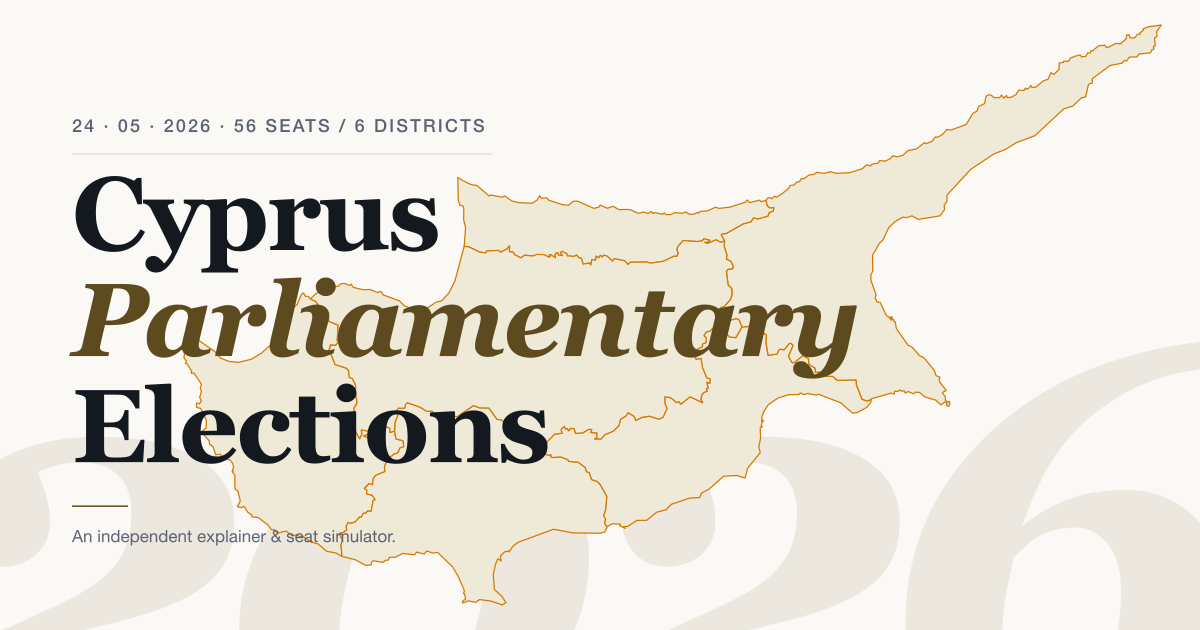
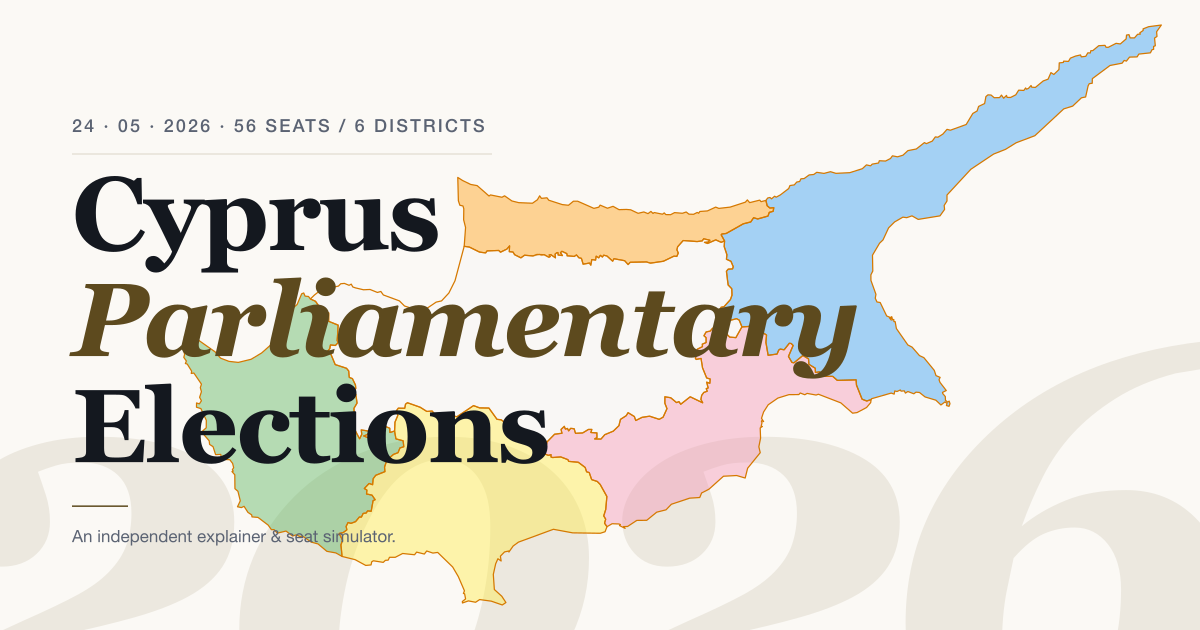
Fix social share preview: absolute OG image URL and per-district colours
Social crawlers were rendering no preview because og:image / twitter:image
resolved to relative URLs. Switched to absolute https URLs and added
og:url, og:image:secure_url, og:image:type.

Regenerated og-image.png so the island matches the landing page's
end-of-animation state (per-district ballot colours instead of a single
accent-soft wash). generate-icons.mjs now resolves its repo root from
the script location and parses district id+path pairs.

Changed region(s): [[0.1542, 0.0302, 0.9867, 0.9651]]

diff --git a/src/app.html b/src/app.html
@@ -25,7 +25,10 @@
     <meta property="og:type" content="website" />
     <meta property="og:title" content="Cyprus Parliamentary Elections 2026" />
     <meta property="og:description" content="How parliament is really chosen, and why polls don’t tell the whole story. An interactive explainer in English &amp; Greek." />
-    <meta property="og:image" content="%sveltekit.assets%/og-image.png" />
+    <meta property="og:url" content="https://an21p.github.io/cyprus-parliamentary-elections-2026/" />
+    <meta property="og:image" content="https://an21p.github.io/cyprus-parliamentary-elections-2026/og-image.png" />
+    <meta property="og:image:secure_url" content="https://an21p.github.io/cyprus-parliamentary-elections-2026/og-image.png" />
+    <meta property="og:image:type" content="image/png" />
     <meta property="og:image:width" content="1200" />
     <meta property="og:image:height" content="630" />
     <meta property="og:image:alt" content="Cyprus 2026 Parliamentary Elections · interactive explainer" />
@@ -35,7 +38,7 @@
     <meta name="twitter:card" content="summary_large_image" />
     <meta name="twitter:title" content="Cyprus Parliamentary Elections 2026" />
     <meta name="twitter:description" content="How parliament is really chosen, and why polls don’t tell the whole story." />
-    <meta name="twitter:image" content="%sveltekit.assets%/og-image.png" />
+    <meta name="twitter:image" content="https://an21p.github.io/cyprus-parliamentary-elections-2026/og-image.png" />
     <meta name="twitter:image:alt" content="Cyprus 2026 Parliamentary Elections · interactive explainer" />
 
     <link rel="preconnect" href="https://fonts.googleapis.com" />
